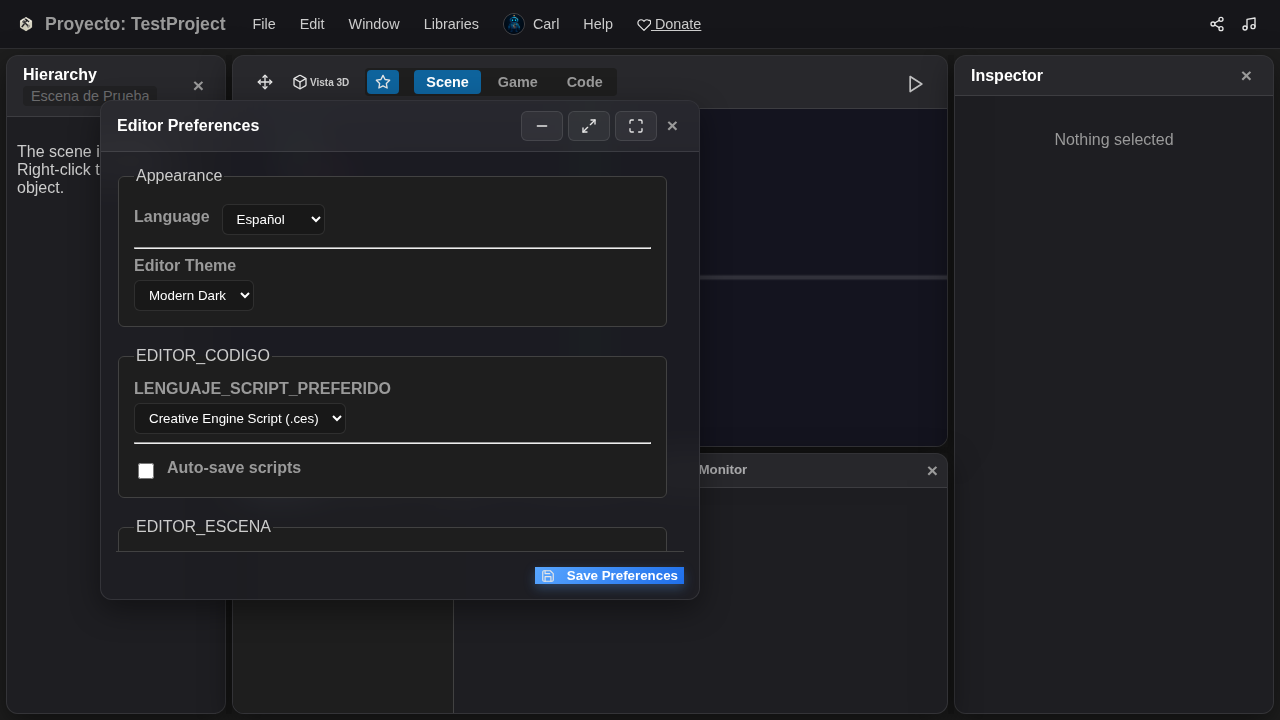
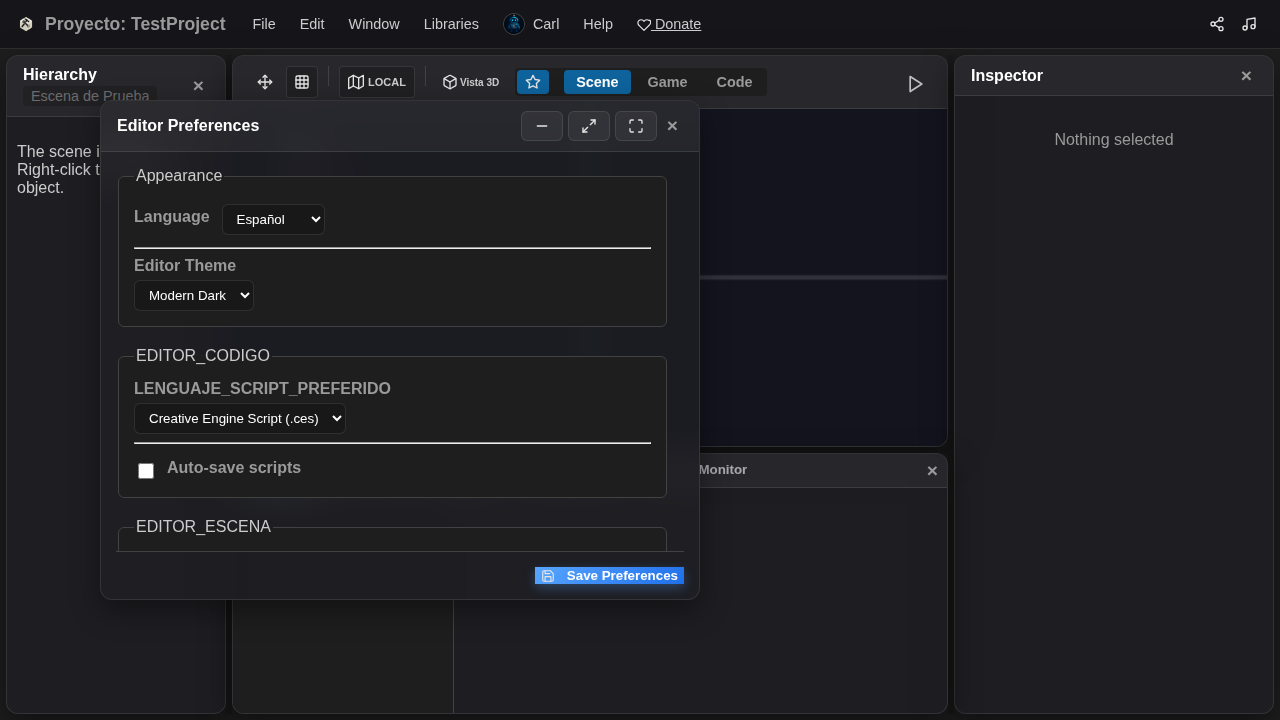
feat: refine gizmos, snapping, child coords, and camera picking in 2D engine
- Restored quick snapping icon button in Scene panel toolbar (grid size remains in Preferences)
- Implemented single-click Local/Global child creation toggle with dynamic text and icon in the toolbar
- Fixed +Y UP upside down rendering of camera and collider gizmo icons
- Implemented prioritzed gizmo icon picking in 2D mode, ensuring that clicking directly on camera or audio icons immediately selects them instead of nearby overlapping objects
- Grouped the viewport Gizmo Toggle button inside the view-toggle controls on the right side of the Scene Panel header

Changed region(s): [[0.2188, 0.0917, 0.5312, 0.1528], [0.5625, 0.0917, 0.5938, 0.1222]]

diff --git a/js/editor/SceneView.js b/js/editor/SceneView.js
@@ -288,7 +288,7 @@ function checkCameraGizmoHit(canvasPos) {
     const cos = Math.cos(rad);
     const sin = Math.sin(rad);
     const localMouseX = (worldMouse.x - transform.x) * cos - (worldMouse.y - transform.y) * sin;
-    const localMouseY = (worldMouse.x - transform.x) * sin + (worldMouse.y - transform.y) * cos;
+    const localMouseY = -((worldMouse.x - transform.x) * sin + (worldMouse.y - transform.y) * cos);
 
     const aspect = renderer.canvas.width / renderer.canvas.height;
     const size = cameraComponent.orthographicSize;
@@ -2228,6 +2228,27 @@ function pick2D(canvasPos) {
     // Iterate in reverse to pick the topmost object
     const allMaterias = SceneManager.currentScene.getAllMaterias().reverse();
 
+    // 1. PRIORITIZE GIZMO ICONS (Camera, AudioSource, VideoPlayer, Lights)
+    for (const materia of allMaterias) {
+        if (!materia.isActive) continue;
+
+        const transform = materia.getComponent(Components.Transform);
+        if (!transform) continue;
+
+        const hasIcon = materia.getComponent(Components.Camera) ||
+                        materia.getComponent(Components.AudioSource) ||
+                        materia.getComponent(Components.VideoPlayer);
+
+        if (hasIcon) {
+            const iconSize = 32 / renderer.camera.effectiveZoom;
+            const dist = Math.hypot(worldMouse.x - transform.x, worldMouse.y - transform.y);
+            if (dist <= iconSize / 2 + 4) { // 4px padding for easy clicking
+                return materia.id;
+            }
+        }
+    }
+
+    // 2. STANDARD BOUNDS PICKING
     for (const materia of allMaterias) {
         if (!materia.isActive) continue;
 
@@ -3459,6 +3480,9 @@ function drawGizmoIcons(proj = null, view = null, cw = null, ch = null) {
                 if (screenPos) {
                     ctx.save();
                     ctx.translate(screenPos.x, screenPos.y);
+                    if (!is3DActive) {
+                        ctx.scale(1, -1);
+                    }
                     ctx.globalAlpha = 0.8;
                     const size = (is3DActive ? BASE_ICON_SIZE * scale : BASE_ICON_SIZE / zoom);
                     ctx.drawImage(iconImg, -size / 2, -size / 2, size, size);
@@ -3704,7 +3728,7 @@ function checkBoxColliderGizmoHit(canvasPos) {
     const cos = Math.cos(rad);
     const sin = Math.sin(rad);
     const localMouseX = (worldMouse.x - (transform.x + boxCollider.offset.x)) * cos - (worldMouse.y - (transform.y + boxCollider.offset.y)) * sin;
-    const localMouseY = (worldMouse.x - (transform.x + boxCollider.offset.x)) * sin + (worldMouse.y - (transform.y + boxCollider.offset.y)) * cos;
+    const localMouseY = -((worldMouse.x - (transform.x + boxCollider.offset.x)) * sin + (worldMouse.y - (transform.y + boxCollider.offset.y)) * cos);
 
     const width = boxCollider.size.x * transform.scale.x;
     const height = boxCollider.size.y * transform.scale.y;
@@ -3750,7 +3774,7 @@ function checkCapsuleColliderGizmoHit(canvasPos) {
     const cos = Math.cos(rad);
     const sin = Math.sin(rad);
     const localMouseX = (worldMouse.x - (transform.x + capsuleCollider.offset.x)) * cos - (worldMouse.y - (transform.y + capsuleCollider.offset.y)) * sin;
-    const localMouseY = (worldMouse.x - (transform.x + capsuleCollider.offset.x)) * sin + (worldMouse.y - (transform.y + capsuleCollider.offset.y)) * cos;
+    const localMouseY = -((worldMouse.x - (transform.x + capsuleCollider.offset.x)) * sin + (worldMouse.y - (transform.y + capsuleCollider.offset.y)) * cos);
 
     const width = capsuleCollider.size.x * transform.scale.x;
     const height = capsuleCollider.size.y * transform.scale.y;

diff --git a/js/editor.js b/js/editor.js
@@ -577,7 +577,8 @@ document.addEventListener('DOMContentLoaded', () => {
             'scene-canvas-3d', 'game-canvas-3d', 'prefs-show-origin-axes', 'prefs-show-orientation-gizmo',
             'prefs-show-see-through-gizmo', 'prefs-show-blue-skeleton-gizmo',
             'prefs-invert-x-axis', 'prefs-invert-y-axis',
-            'prefs-child-creation-mode'
+            'prefs-child-creation-mode',
+            'btn-snap-toggle', 'btn-child-mode-toggle', 'icon-child-mode', 'label-child-mode'
         ];
         ids.forEach(id => {
             const camelCaseId = id.replace(/-(\w)/g, (_, c) => c.toUpperCase());
@@ -4537,6 +4538,50 @@ NOTA: Usa "@last" en materiaId o parentId para referirte al ultimo objeto creado
             });
         }
 
+        // --- Snapping & Child Creation Mode Event Listeners ---
+        window.syncQuickToolbarButtons = function() {
+            const prefs = getPreferences();
+            if (dom.btnSnapToggle) {
+                dom.btnSnapToggle.classList.toggle('active', !!prefs.snapping);
+            }
+            if (dom.btnChildModeToggle) {
+                const mode = prefs.childCreationMode || 'local';
+                window.childCreationMode = mode;
+                if (dom.labelChildMode) dom.labelChildMode.textContent = mode === 'global' ? 'Global' : 'Local';
+                if (dom.iconChildMode) dom.iconChildMode.src = mode === 'global' ? 'icons/globe.svg' : 'icons/map.svg';
+            }
+        };
+
+        if (dom.btnSnapToggle) {
+            dom.btnSnapToggle.addEventListener('click', () => {
+                const prefs = getPreferences();
+                prefs.snapping = !prefs.snapping;
+                localStorage.setItem('creativeEnginePrefs', JSON.stringify(prefs));
+                window.syncQuickToolbarButtons();
+
+                // Sync with Preferences Modal
+                const modalCheckbox = document.getElementById('prefs-snapping-toggle');
+                if (modalCheckbox) modalCheckbox.checked = prefs.snapping;
+                const prefsToggleGroup = document.getElementById('prefs-snapping-grid-size-group');
+                if (prefsToggleGroup) {
+                    prefsToggleGroup.classList.toggle('hidden', !prefs.snapping);
+                }
+            });
+        }
+
+        if (dom.btnChildModeToggle) {
+            dom.btnChildModeToggle.addEventListener('click', () => {
+                const prefs = getPreferences();
+                const currentMode = prefs.childCreationMode || 'local';
+                prefs.childCreationMode = currentMode === 'global' ? 'local' : 'global';
+                localStorage.setItem('creativeEnginePrefs', JSON.stringify(prefs));
+                window.syncQuickToolbarButtons();
+
+                // Sync with Preferences Modal
+                const modalSelect = document.getElementById('prefs-child-creation-mode');
+                if (modalSelect) modalSelect.value = prefs.childCreationMode;
+            });
+        }
     }
 
     function updateAmbientePanelFromScene() {
@@ -5336,6 +5381,7 @@ public start() {
 
             updateLoadingProgress(90, "Finalizando...");
             setupEventListeners();
+            if (window.syncQuickToolbarButtons) window.syncQuickToolbarButtons();
             initializeFloatingPanels();
 
             if (window.logToUIConsole) {

diff --git a/editor.html b/editor.html
@@ -462,6 +462,15 @@ public star() {
                                     <button id="tool-tile-eraser" class="toolbar-btn tilemap-tool" title="Goma de Tiles (N)" data-i18n-title="HERRAMIENTA_GOMA" style="display: none;"><img src="icons/eraser.svg" class="ce-icon"> <span data-i18n="HERRAMIENTA_GOMA">Goma</span></button>
                                 </div>
                             </div>
+                            <button id="btn-snap-toggle" class="toolbar-btn" title="Activar/Desactivar Ajuste (Snap)" style="height: 32px; width: 32px; display: inline-flex; align-items: center; justify-content: center; border-radius: 4px; background: rgba(0,0,0,0.2); border: 1px solid rgba(255,255,255,0.1); padding: 0;">
+                                <img src="icons/grid.svg" class="ce-icon">
+                            </button>
+                            <div class="toolbar-separator"></div>
+                            <button id="btn-child-mode-toggle" class="toolbar-btn" title="Posición de nuevos hijos (Hacer clic para alternar)" style="display: inline-flex; align-items: center; justify-content: center; height: 32px; gap: 4px; padding: 0 8px; border-radius: 4px; background: rgba(0,0,0,0.2); border: 1px solid rgba(255,255,255,0.1);">
+                                <img id="icon-child-mode" src="icons/map.svg" class="ce-icon">
+                                <span id="label-child-mode" style="font-size: 11px; font-weight: bold; text-transform: uppercase;">Local</span>
+                            </button>
+                            <div class="toolbar-separator"></div>
                             <button id="btn-toggle-2d-3d" class="toolbar-btn" title="Alternar 2D/3D (Tecla 2/3)" data-i18n-title="ALTERNAR_2D_3D">
                                 <img id="icon-2d-3d" src="icons/layers.svg" class="ce-icon">
                                 <span id="label-2d-3d" style="font-size: 10px; font-weight: bold; margin-left: 2px;">2D</span>

diff --git a/js/editor/ui/PreferencesWindow.js b/js/editor/ui/PreferencesWindow.js
@@ -151,18 +151,12 @@ function applyPreferences() {
         }
     }
 
-    // Sync quick snapping controls in Scene View toolbar
-    const btnSnapToggle = document.getElementById('btn-snap-toggle');
-    const inputSnapGridSize = document.getElementById('input-snap-grid-size');
-    if (btnSnapToggle) {
-        btnSnapToggle.classList.toggle('active', !!currentPreferences.snapping);
+    // Sync quick controls in Scene View toolbar
+    if (window.syncQuickToolbarButtons) {
+        window.syncQuickToolbarButtons();
+    } else {
+        window.childCreationMode = currentPreferences.childCreationMode || 'local';
     }
-    if (inputSnapGridSize) {
-        inputSnapGridSize.value = currentPreferences.gridSize || 25;
-    }
-
-    // Set window child creation mode
-    window.childCreationMode = currentPreferences.childCreationMode || 'local';
 }
 
 async function savePreferences() {
